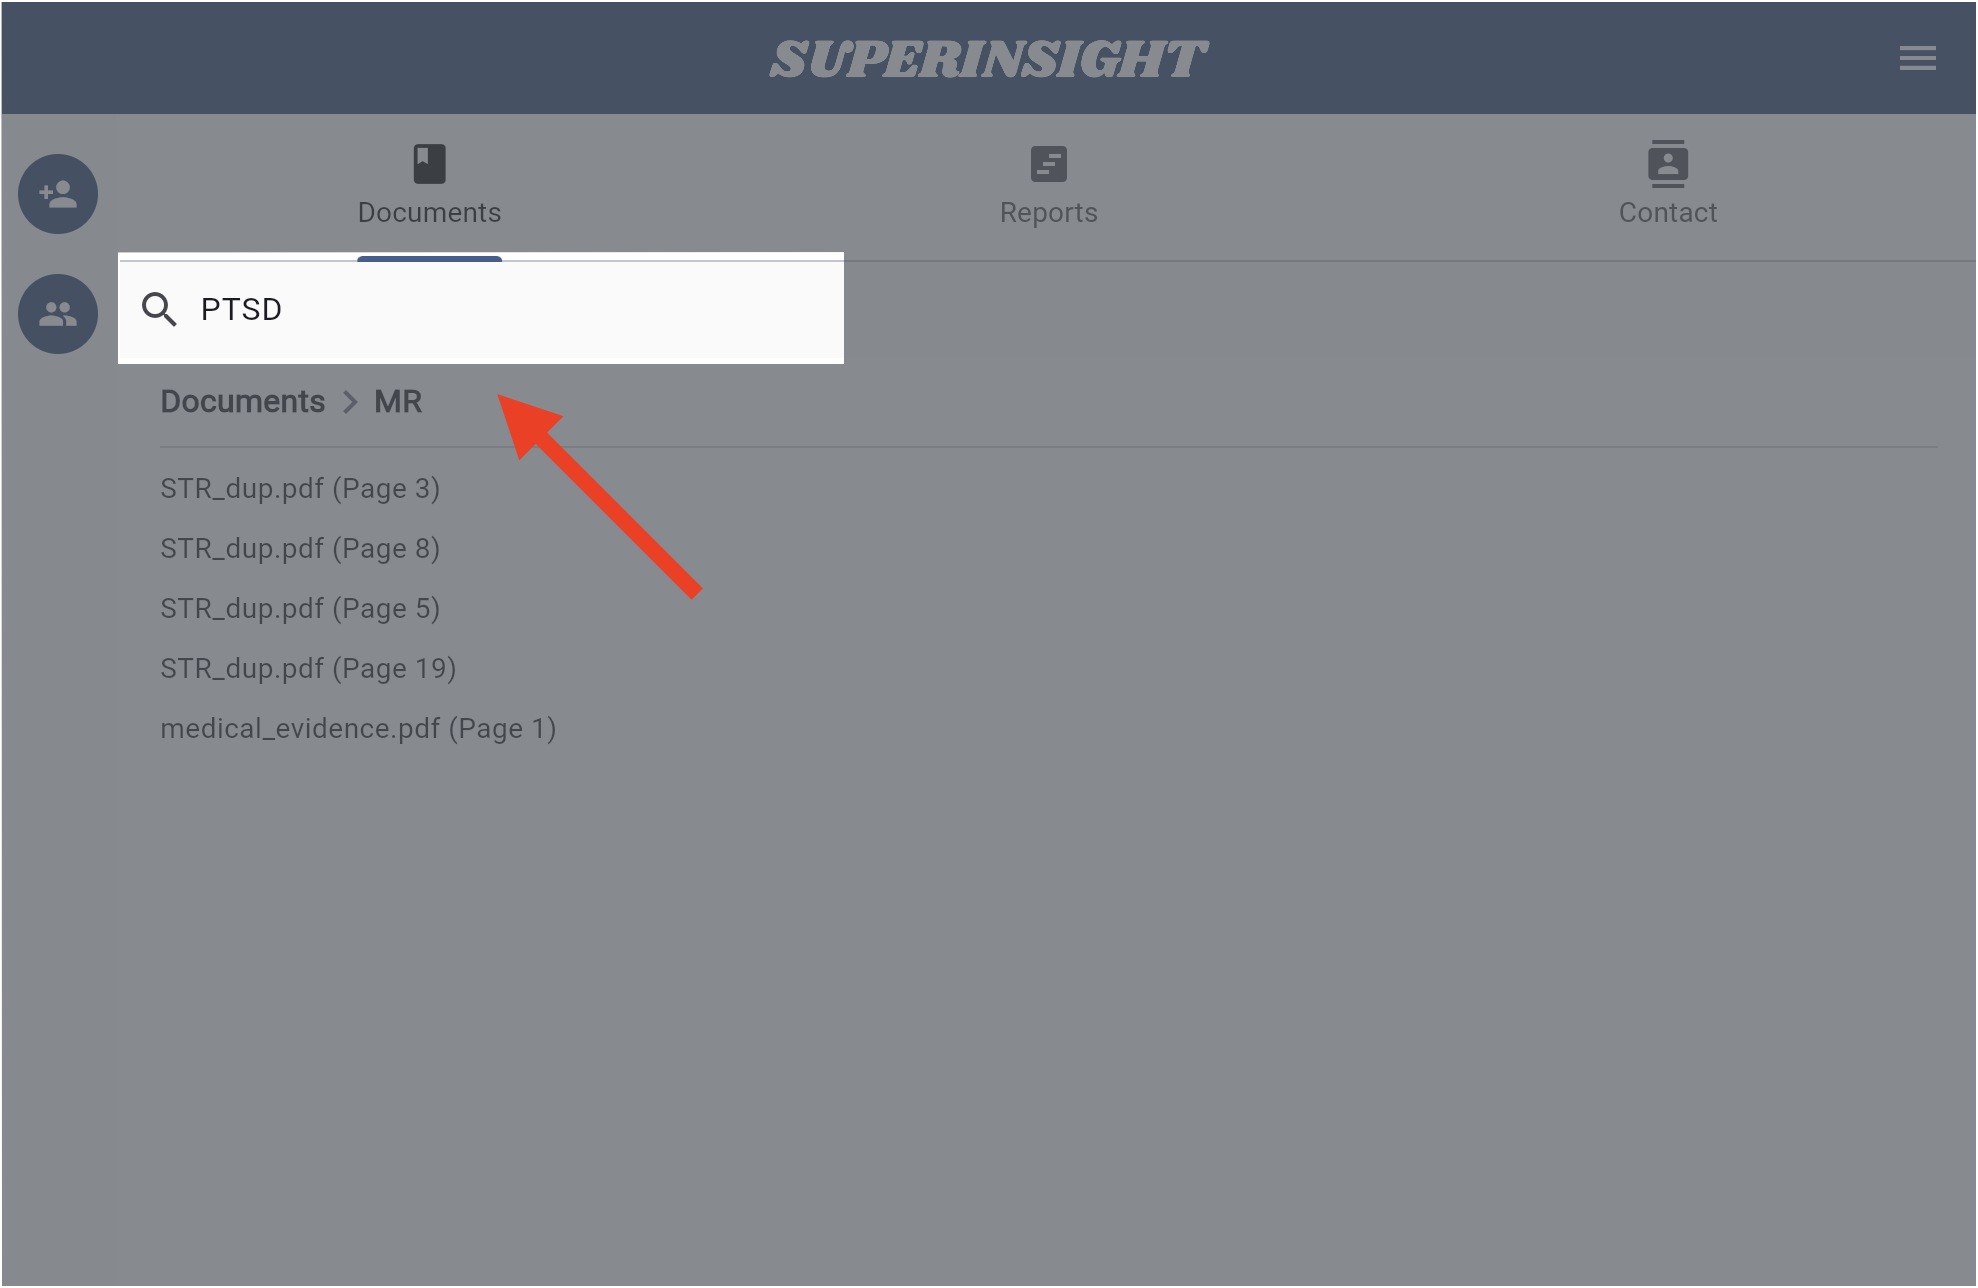
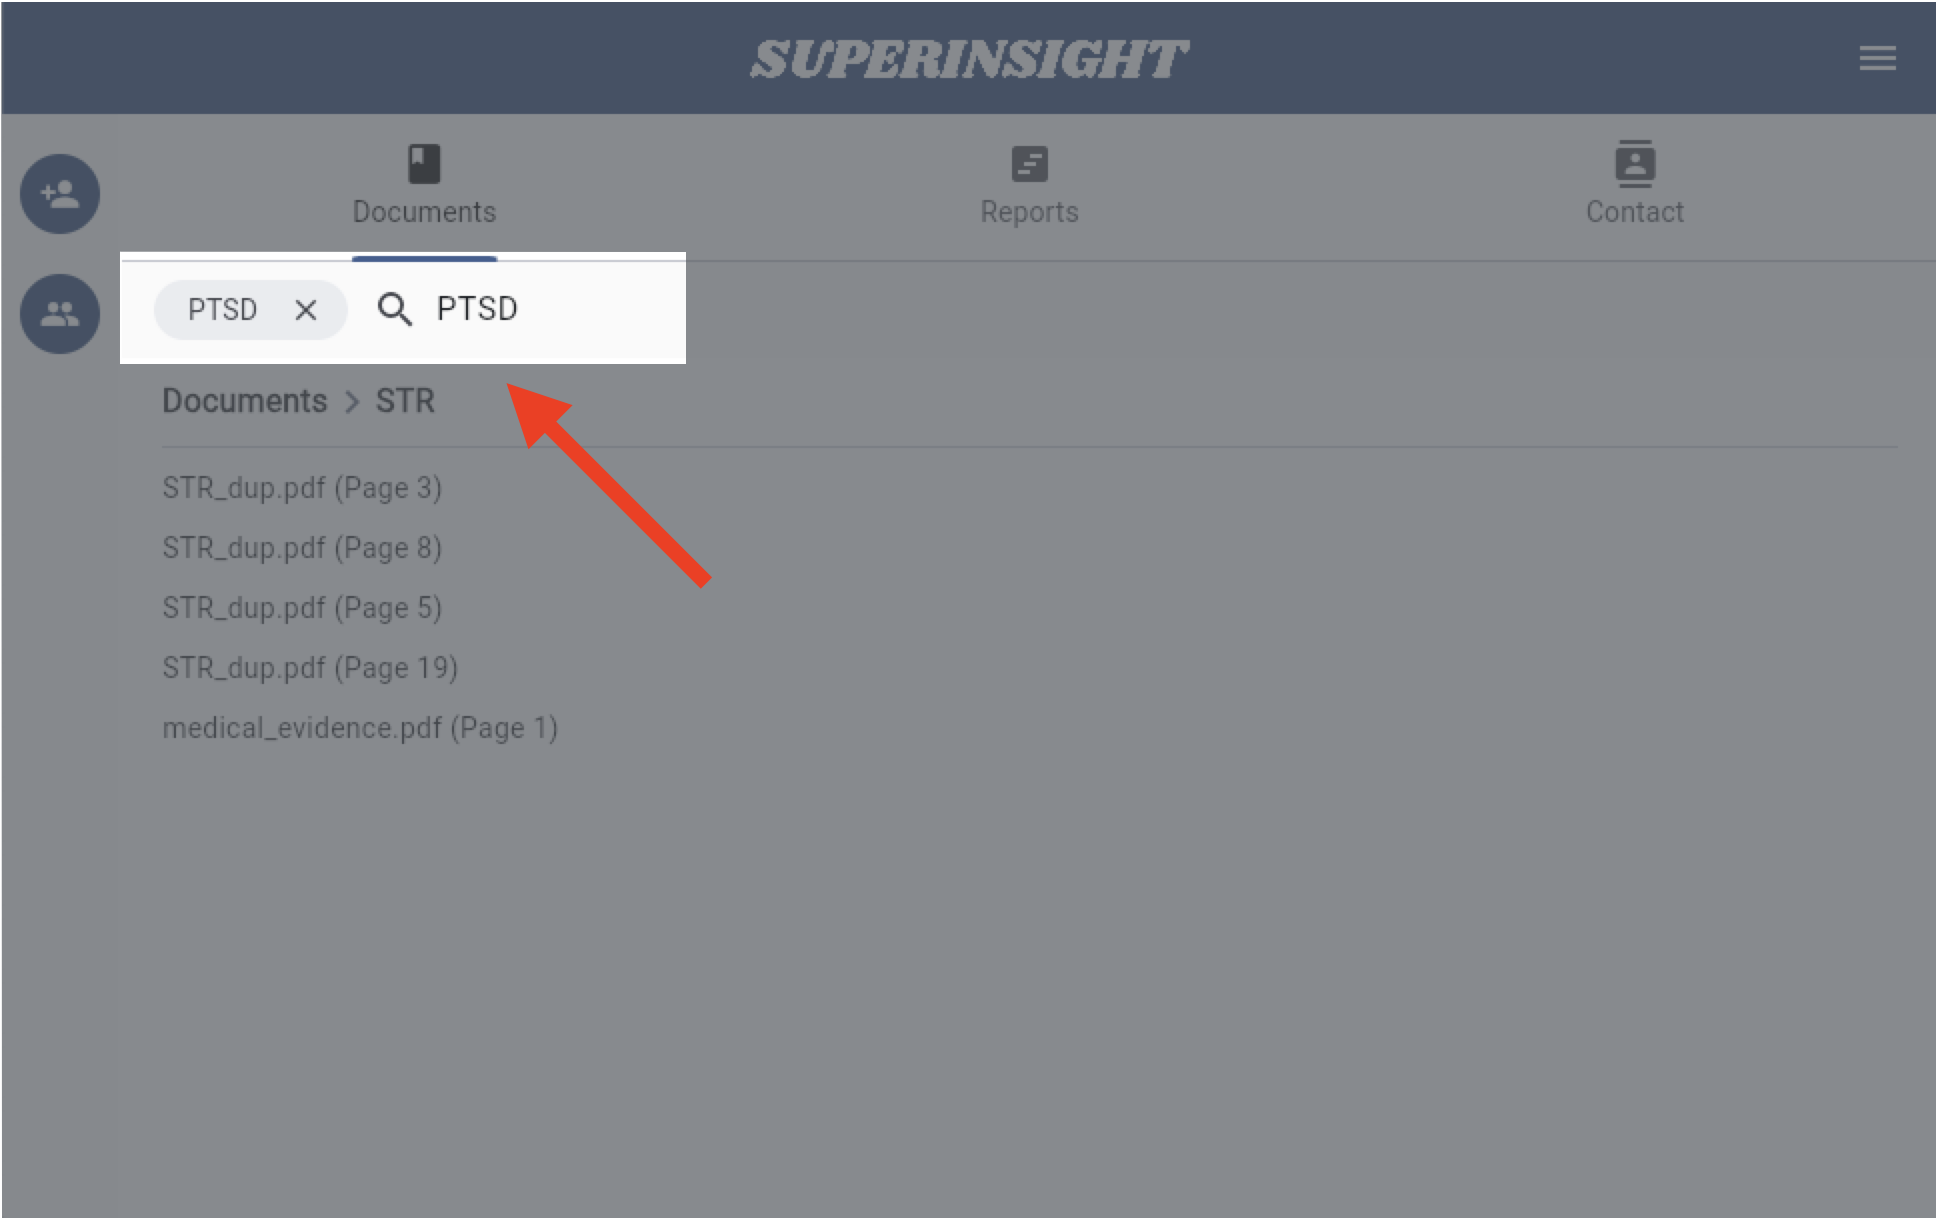
feature-october-updates24-v2

diff --git a/docs/guide/search.md b/docs/guide/search.md
@@ -19,12 +19,17 @@ If you have cases shared by your co-worker, you can quickly find the contact wit
 
 ## 2. Search Documents
 
-In the Documents tab, you can also find the search bar. Type in the terms you're searching for, and then Superinsight will locate all the relevant information from thousands of your documents in seconds. Even precisely tell you which page of the documents.
+In the Documents tab, you can also find the search bar. Like Google Search, type in the terms or keywords you're looking for, and then Superinsight will locate all the relevant information from thousands of your files in seconds. Even precisely tell you which page of the files.
 
-Your documents are sorted by update date by default. You can also sort them by file name, or label by clicking the column. If you need to find them descending, just click the column again
+You can even search in one particular file and let Superinsight find all the pages that are relevant to your terms and keywords at once.
 
-=== "Search Documents"
-    ![Search Documents](../assets/images/tutorial/search-docs.png)
+Your files are sorted by update date by default. You can also sort them by file name, or label by clicking the column. If you need to find them descending, just click the column again.
 
-=== "Sort Documents"
+=== "Search in Folder"
+    ![Search in Folder](../assets/images/tutorial/search-docs.png)
+
+=== "Search in File"
+    ![Search in File](../assets/images/tutorial/search-file.png)
+
+=== "Sort Files"
     ![Sort Documents](../assets/images/tutorial/sort-docs.png)

diff --git a/docs/guide/release-notes.md b/docs/guide/release-notes.md
@@ -6,6 +6,18 @@ Release notes provide the list of items on feature changes, known issues, fixes,
 
 ---------------------------------------
 
+#### October 14, 2024 Released
+
+* Search feature optimized.
+
+* Minor bugs fixed.
+
+* Improved the results of reports.
+
+* System optimized.
+
+---------------------------------------
+
 #### October 4, 2024 Released
 
 * New feature - Change Mobile Phone Number.
